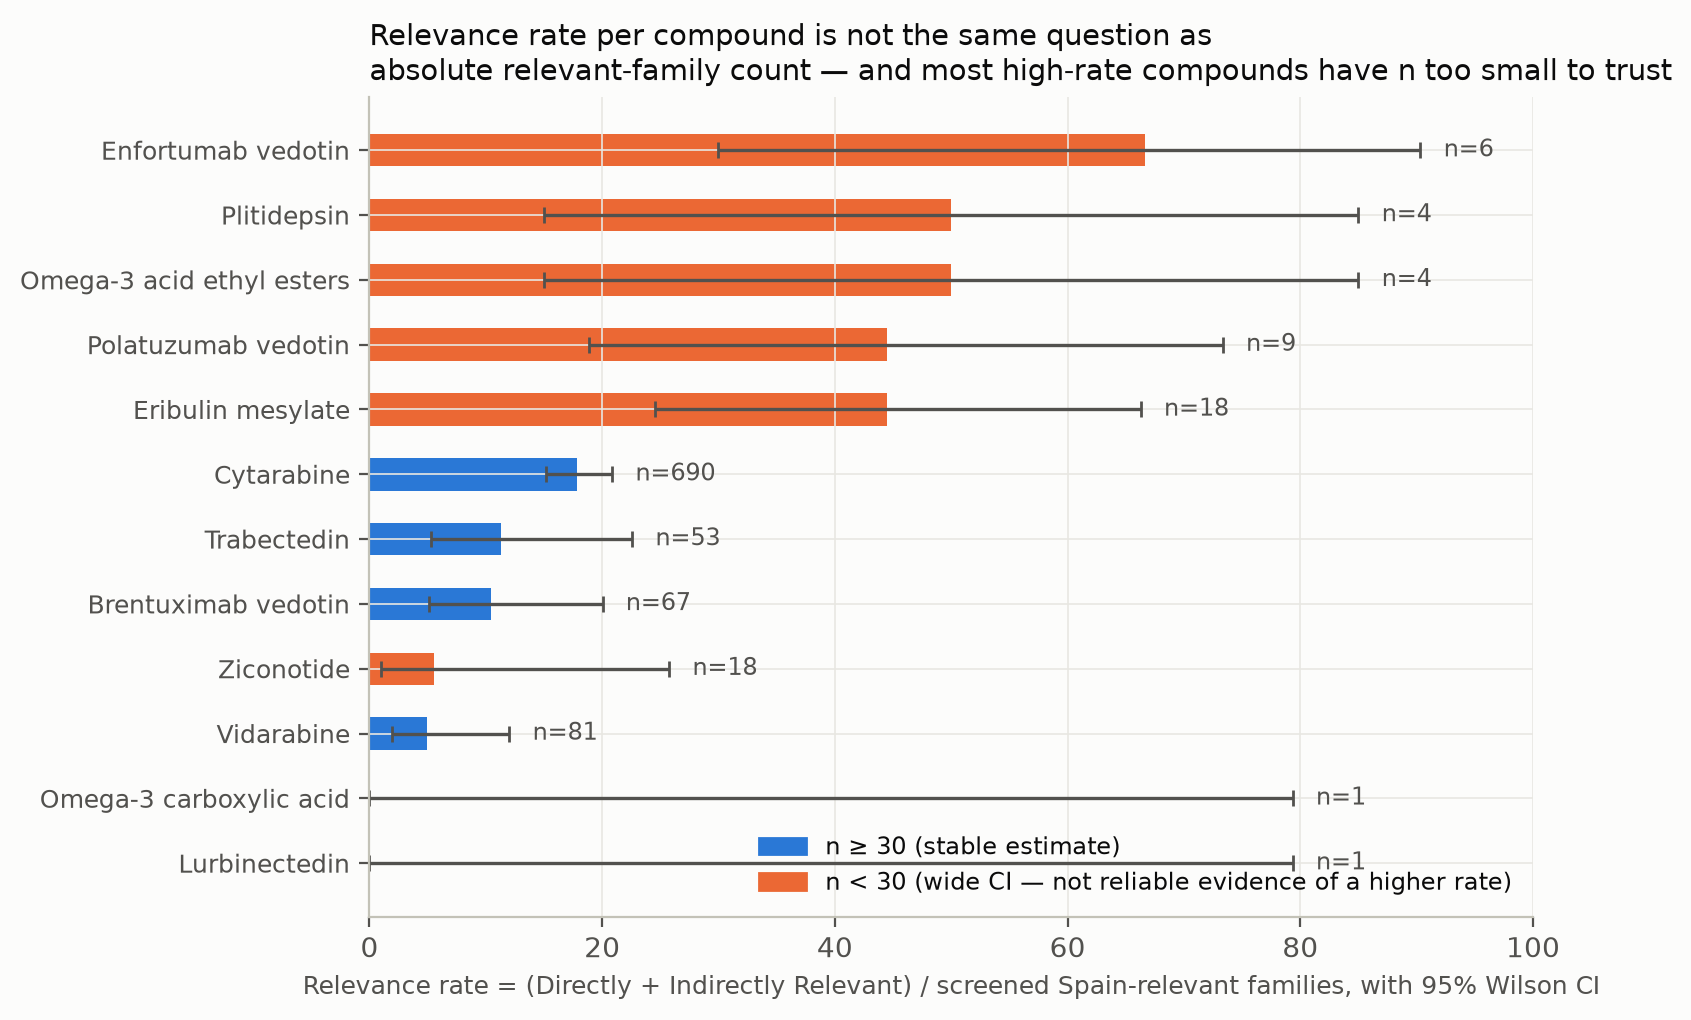
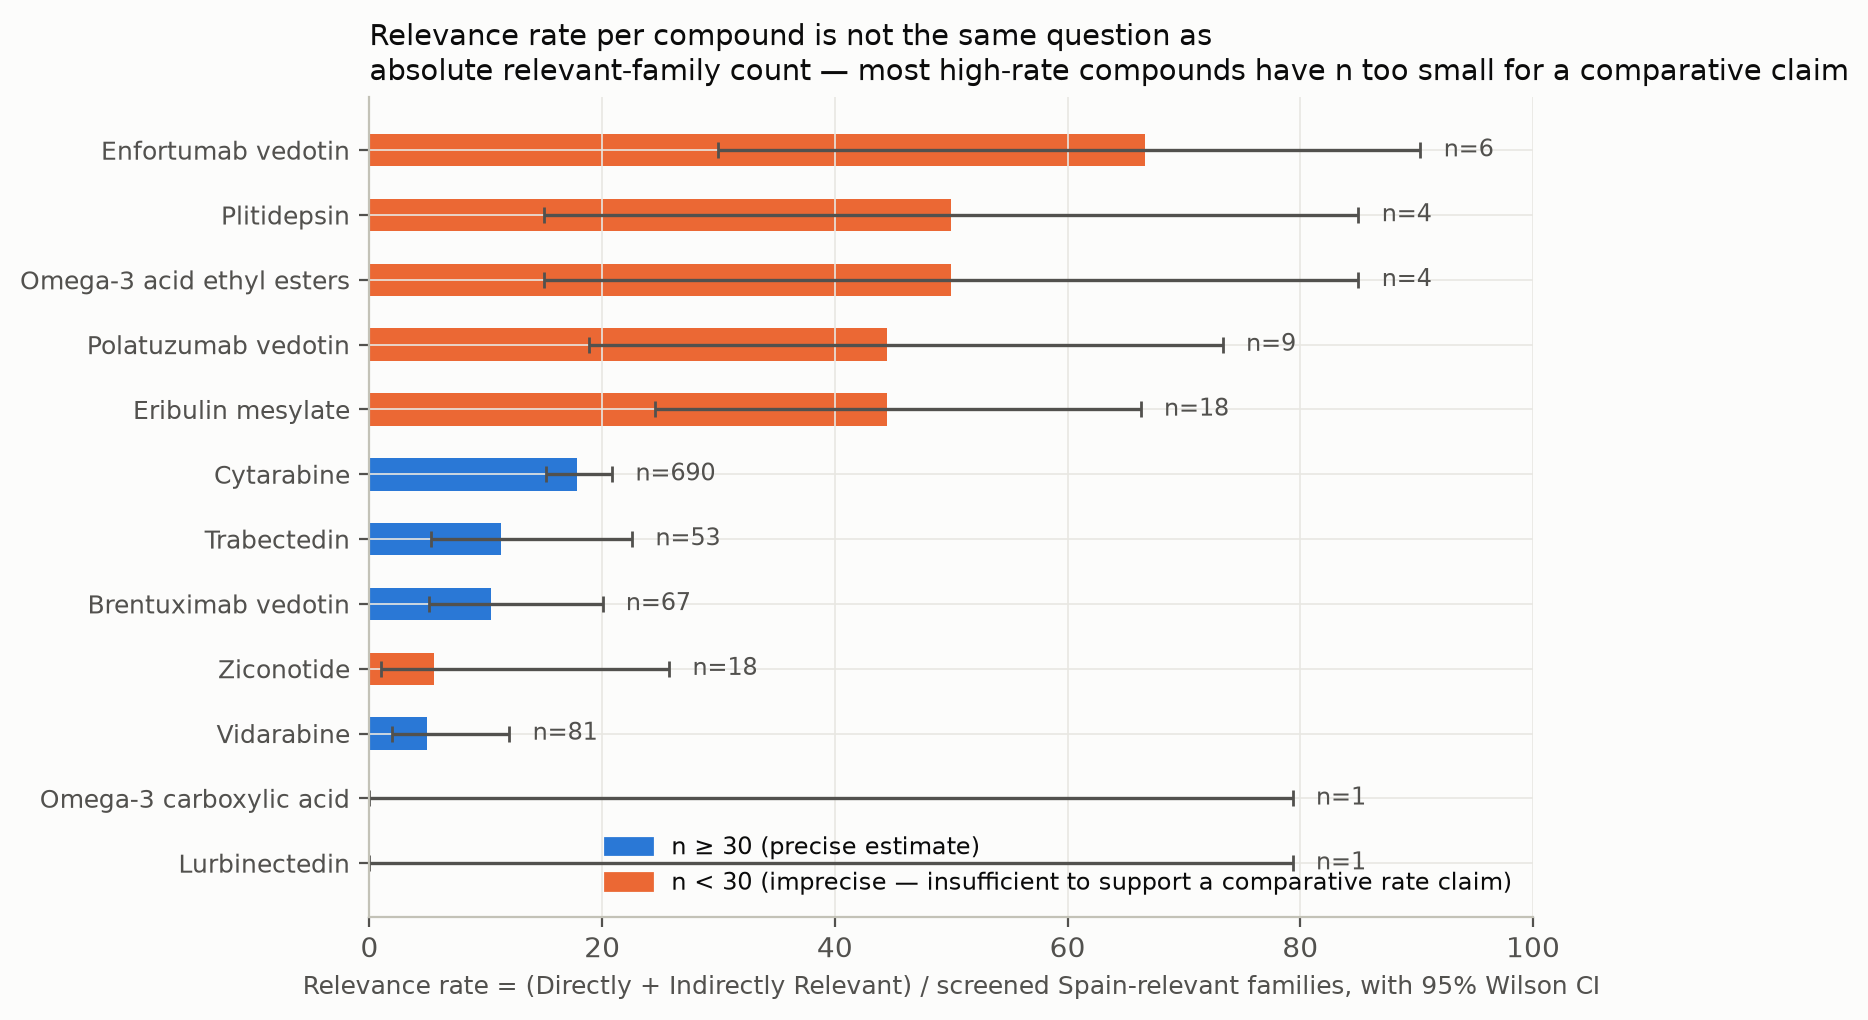
docs(article): add reproducible script/table, tighten interpretation wording
- Adds build_relevance_rate_analysis.py (reproduces figure10 and generates
  relevance_rate_by_compound.csv) and the generated CSV, so the rate analysis
  in 89e4e1e is independently reproducible, not just a one-off chart.
- Tightens SCIENTIFIC_INTERPRETATION.md wording per review: the four
  smallest-n compounds' estimates are described as "imprecise and
  insufficient to support a comparative rate claim" rather than "noise" (a
  causal/explanatory word the confidence intervals don't actually support);
  Eribulin mesylate is no longer grouped with them (its interval, while
  itself fairly wide, is statistically separated from Cytarabine's, which is
  the actual basis for treating it differently); the Eribulin finding is
  now framed as "worth qualitative investigation," not attributed to a
  specific cause the current data can establish.

Claude-Session: https://claude.ai/code/session_01Bmgv8RZHFukocE99nTaf58

diff --git a/experiments/article/figures/build_relevance_rate_analysis.py b/experiments/article/figures/build_relevance_rate_analysis.py
@@ -1,0 +1,104 @@
+"""Reproducible relevance-rate analysis: recomputes the frozen classification
+(screening_table_consolidated.csv, tag paper-data-milestone-2026-09-22) by
+rate instead of absolute count, with Wilson 95% confidence intervals.
+Produces figure10_relevance_rate_by_compound.png and
+relevance_rate_by_compound.csv. No new data is read or acquired.
+"""
+import csv, math
+from collections import Counter
+import matplotlib
+matplotlib.use('Agg')
+import matplotlib.pyplot as plt
+
+plt.rcParams.update({
+    'font.family': 'DejaVu Sans', 'axes.edgecolor': '#c3c2b7', 'axes.labelcolor': '#52514e',
+    'text.color': '#0b0b0b', 'xtick.color': '#52514e', 'ytick.color': '#52514e',
+    'axes.grid': True, 'grid.color': '#e8e7e2', 'grid.linewidth': 0.6,
+    'figure.facecolor': '#fcfcfb', 'axes.facecolor': '#fcfcfb', 'savefig.facecolor': '#fcfcfb',
+})
+BLUE, ORANGE = '#2a78d6', '#eb6834'
+TEXT_PRIMARY, TEXT_SECONDARY = '#0b0b0b', '#52514e'
+
+SRC = '../minesoft_spain_2000_2025_classification/screening_table_consolidated.csv'
+
+COMPOUNDS = ['Brentuximab_vedotin', 'Cytarabine', 'Trabectedin', 'Vidarabine', 'Ziconotide',
+             'Plitidepsin', 'Omega3_acid_ethyl_esters', 'Polatuzumab_vedotin',
+             'Omega3_carboxylic_acid', 'Enfortumab_vedotin', 'Eribulin_mesylate', 'Lurbinectedin']
+LABELS = {'Omega3_acid_ethyl_esters': 'Omega-3 acid ethyl esters',
+          'Omega3_carboxylic_acid': 'Omega-3 carboxylic acid'}
+
+
+def lbl(c):
+    return LABELS.get(c, c.replace('_', ' '))
+
+
+def wilson_ci(k, n, z=1.96):
+    if n == 0:
+        return (0.0, 0.0)
+    p = k / n
+    denom = 1 + z ** 2 / n
+    center = (p + z ** 2 / (2 * n)) / denom
+    half = z * math.sqrt((p * (1 - p) + z ** 2 / (4 * n)) / n) / denom
+    return (max(0, center - half) * 100, min(1, center + half) * 100)
+
+
+def main():
+    with open(SRC) as f:
+        rows = list(csv.DictReader(f))
+
+    screened = {c: Counter() for c in COMPOUNDS}
+    for r in rows:
+        for c in r['Compound'].split('; '):
+            if c in screened:
+                screened[c][r['Relevance_Class']] += 1
+
+    data = []
+    for c in COMPOUNDS:
+        ctr = screened[c]
+        n = sum(ctr.values())
+        k = ctr['Directly Relevant'] + ctr['Indirectly Relevant']
+        rate = k / n * 100 if n else 0
+        lo, hi = wilson_ci(k, n)
+        data.append((c, n, k, rate, lo, hi))
+    data.sort(key=lambda x: -x[3])
+
+    with open('relevance_rate_by_compound.csv', 'w', newline='') as f:
+        w = csv.writer(f)
+        w.writerow(['Compound', 'Screened', 'Relevant', 'Rate_pct', 'Wilson_CI_low_pct', 'Wilson_CI_high_pct'])
+        for c, n, k, rate, lo, hi in data:
+            w.writerow([c.replace('_', ' '), n, k, round(rate, 1), round(lo, 1), round(hi, 1)])
+
+    fig, ax = plt.subplots(figsize=(8, 5.2), dpi=200)
+    y = list(range(len(data)))
+    rates = [d[3] for d in data]
+    los = [d[3] - d[4] for d in data]
+    his = [d[5] - d[3] for d in data]
+    colors = [BLUE if d[1] >= 30 else ORANGE for d in data]
+
+    ax.barh(y, rates, height=0.5, color=colors)
+    ax.errorbar(rates, y, xerr=[los, his], fmt='none', ecolor='#52514e', elinewidth=1.2, capsize=3)
+    for i, (c, n, k, rate, lo, hi) in enumerate(data):
+        ax.text(hi + 2, i, f"n={n}", va='center', ha='left', fontsize=8.5, color=TEXT_SECONDARY)
+
+    ax.set_yticks(y)
+    ax.set_yticklabels([lbl(d[0]) for d in data], fontsize=9)
+    ax.invert_yaxis()
+    ax.set_xlim(0, 100)
+    ax.set_xlabel('Relevance rate = (Directly + Indirectly Relevant) / screened Spain-relevant families, with 95% Wilson CI', fontsize=9)
+    ax.spines[['top', 'right']].set_visible(False)
+
+    handles = [plt.Rectangle((0, 0), 1, 1, color=BLUE), plt.Rectangle((0, 0), 1, 1, color=ORANGE)]
+    ax.legend(handles, ['n ≥ 30 (precise estimate)', 'n < 30 (imprecise — insufficient to support a comparative rate claim)'],
+              loc='lower right', frameon=False, fontsize=8.5)
+    ax.set_title('Relevance rate per compound is not the same question as\nabsolute relevant-family count — most high-rate compounds have n too small for a comparative claim',
+                 fontsize=10.5, color=TEXT_PRIMARY, loc='left')
+    fig.tight_layout()
+    fig.savefig('figure10_relevance_rate_by_compound.png', bbox_inches='tight')
+    plt.close(fig)
+
+    for c, n, k, rate, lo, hi in data:
+        print(f"{c:26} n={n:4} k={k:4} rate={rate:5.1f}% CI=[{lo:5.1f},{hi:5.1f}]")
+
+
+if __name__ == '__main__':
+    main()

diff --git a/experiments/article/SCIENTIFIC_INTERPRETATION.md b/experiments/article/SCIENTIFIC_INTERPRETATION.md
@@ -34,22 +34,25 @@ universes. See `figures/figure10_relevance_rate_by_compound.png`.
 Confidence intervals were computed with the Wilson score interval (appropriate
 for small-sample proportions, unlike the normal approximation). Five
 compounds — Enfortumab vedotin (n=6), Plitidepsin (n=4), Omega-3 acid ethyl
-esters (n=4), Polatuzumab vedotin (n=9), and even Eribulin mesylate (n=18) —
-have intervals 30–60 percentage points wide. A single re-classified family in
-Plitidepsin's or Omega-3 acid ethyl esters' screened set (n=4) would swing
-the rate by 25 points. **These are not reliable evidence that those compounds
-are genuinely more "relevant-dense" than Cytarabine** — the sample sizes are
-too small to distinguish a real effect from noise.
+esters (n=4), and Polatuzumab vedotin (n=9) — have intervals 45–60 percentage
+points wide. A single re-classified family in Plitidepsin's or Omega-3 acid
+ethyl esters' screened set (n=4) would swing the rate by 25 points. **Their
+rate estimates are imprecise and insufficient to support a comparative claim
+against Cytarabine** — not evidence that the true rate is either higher or
+lower, just too little data to say.
 
-**Eribulin mesylate is the one exception worth taking seriously.** Its 95% CI
-[24.6%, 66.3%] does not overlap Cytarabine's [15.2%, 20.9%] at all — the gap
-between them is large enough, and Eribulin's n=18 large enough, that this
-looks like a genuine difference, not sampling noise. This is the strongest
-rate-based finding in the dataset and the one worth pursuing further (e.g.
-qualitative review of *why* Eribulin's screened families skew relevant —
-possibly reflecting a more specific/less generic compound name than
-"cytarabine", which as a 60-year-old generic chemotherapy name is
-structurally prone to Incidental Mentions in unrelated Markush lists).
+**Eribulin mesylate is the one exception worth taking seriously.** Although
+its own CI [24.6%, 66.3%] is still fairly wide (n=18), it does not overlap
+Cytarabine's [15.2%, 20.9%] at all — the separation between the two
+intervals is large enough that this looks like a genuine rate difference,
+not an artifact of the four smaller-n compounds' imprecision. This is the
+strongest rate-based finding in the dataset and supports a qualitative
+follow-up investigation into what distinguishes Eribulin's 8 relevant
+families from Cytarabine's 123 — not a causal explanation the current data
+can establish on its own (e.g. whether Eribulin's more specific compound
+name structurally yields fewer Incidental-Mention Markush-list hits than a
+60-year-old generic name like "cytarabine" is a hypothesis to test against
+the evidence, not a conclusion drawn here).
 
 ## 3. Cytarabine's own rate is not anomalously low relative to the rest of the corpus
 
@@ -63,9 +66,10 @@ corpus-wide relevance signal? Checked directly:
 - Cytarabine's own rate: **17.8%**
 
 Cytarabine's rate is actually *slightly above*, not below, the rest of the
-corpus's pooled rate. So the dominant narrative should not be "Cytarabine's
-huge numbers are diluted/unreliable noise" — its rate estimate is the most
-statistically solid one in the dataset (tightest CI, by far the largest n)
+corpus's pooled rate. So the dominant narrative should not be that
+Cytarabine's huge numbers make its rate estimate unreliable or diluted —
+the opposite is true: its rate estimate is the most statistically precise
+one in the dataset (tightest CI, by far the largest n)
 and it sits squarely in the middle of the distribution, not as an outlier.
 What *is* true is that Cytarabine's absolute count (123) so dominates the
 161 compound-family total that any unweighted, per-compound summary
